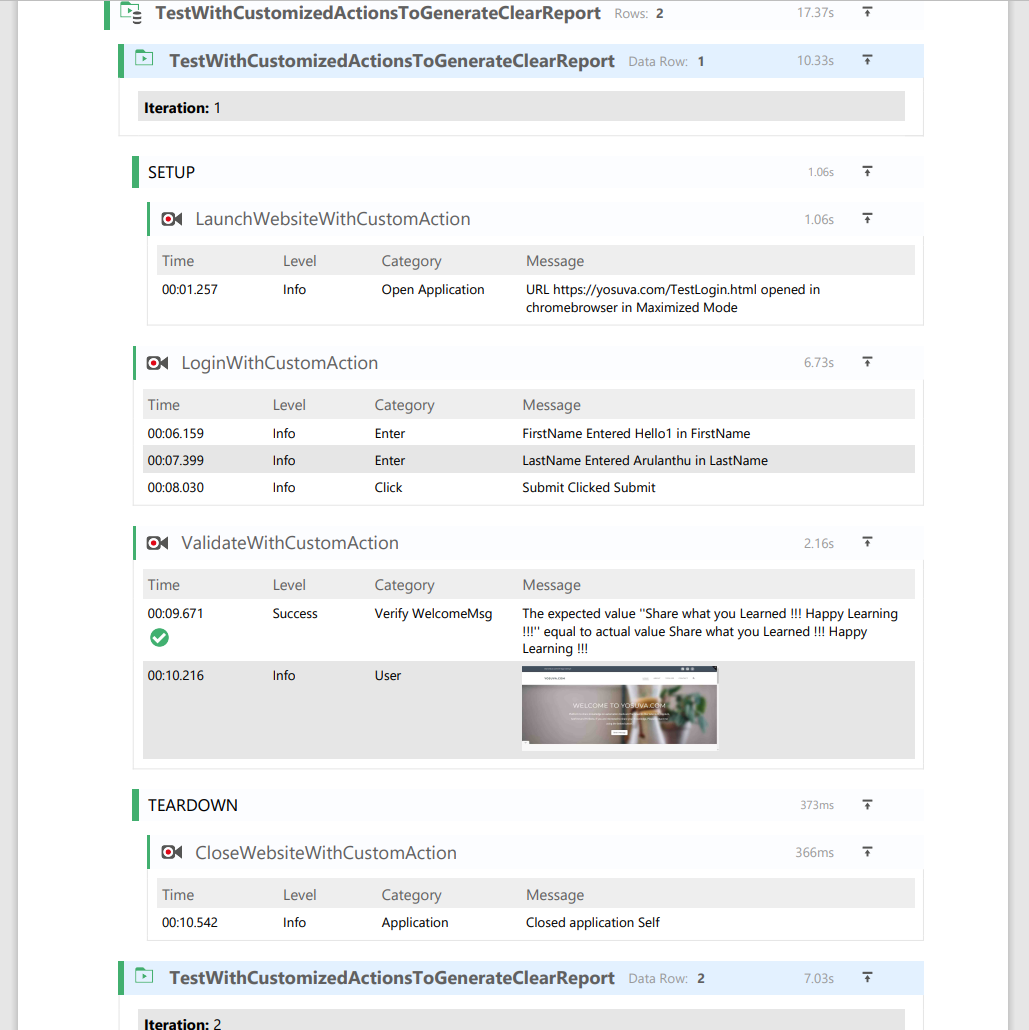
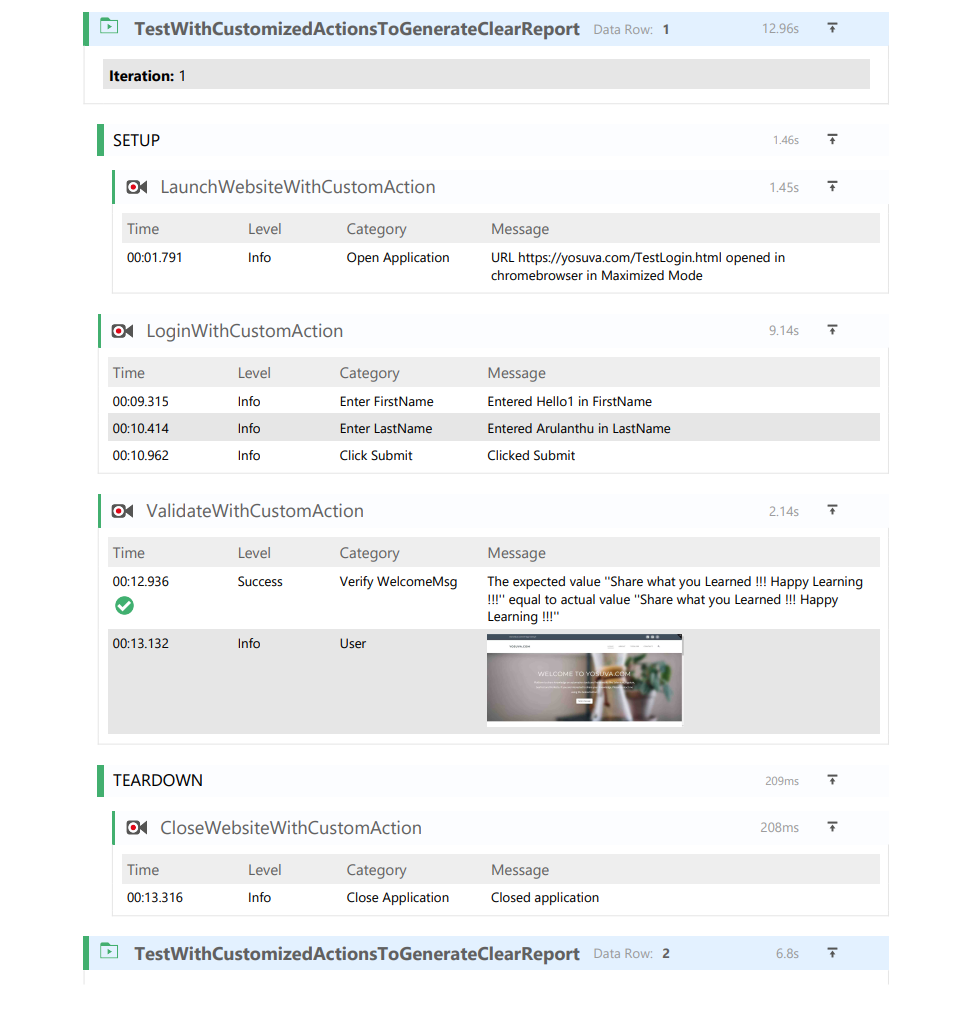
report changes

diff --git a/YosuvaCom/CustomReport/RanorexReport.css b/YosuvaCom/CustomReport/RanorexReport.css
@@ -102,7 +102,7 @@ a:hover {
 div#page {
     text-align: left;
     margin: 0 auto;
-    width: 1400px;
+    width: 1280px; /*it was 950px;*/
     padding: 0;
     background-color: #fff;
     border: 0px solid #ccc;

diff --git a/YosuvaCom/Framework/Actions.cs b/YosuvaCom/Framework/Actions.cs
@@ -39,7 +39,7 @@ namespace Framework
     	public static void Click(RepoItemInfo RepoObject){
     		Ranorex.Adapter itemAdapter=RepoObject.CreateAdapter<Unknown>(true);
     		itemAdapter.Click();
-    		Report.Log(ReportLevel.Info,"Click",RepoObject.Name.Replace("_","")+" Clicked "+RepoObject.Name.Replace("_",""));
+    		Report.Log(ReportLevel.Info,"Click "+RepoObject.Name.Replace("_",""),"Clicked "+RepoObject.Name.Replace("_",""));
     	}
     	
     	[UserCodeMethod]
@@ -47,7 +47,7 @@ namespace Framework
         {
     		Ranorex.Adapter itemAdapter=RepoObject.CreateAdapter<Unknown>(true);
     		itemAdapter.PressKeys (Value);
-    		Report.Log(ReportLevel.Info,"Enter",RepoObject.Name.Replace("_","")+" Entered "+Value+" in "+RepoObject.Name.Replace("_",""));
+    		Report.Log(ReportLevel.Info,"Enter "+RepoObject.Name.Replace("_",""),"Entered "+Value+" in "+RepoObject.Name.Replace("_",""));
 
         }
     	
@@ -63,11 +63,11 @@ namespace Framework
 			}
 			if (actual.Replace("\n","").Equals(expected.Replace("\n","")))
 			{
-				Report.Log(ReportLevel.Success,"Verify "+repoItem.Name.Replace("_",""), "The expected value ''"+expected +"'' equal to actual value "+actual);
+				Report.Log(ReportLevel.Success,"Verify "+repoItem.Name.Replace("_",""), "The expected value ''"+expected +"'' equal to actual value ''"+actual+"''");
 			}
 			else
 			{
-				Report.Log(ReportLevel.Failure,"Verify "+repoItem.Name.Replace("_",""), "The expected value ''"+expected +"'' not equal to actual value "+actual);
+				Report.Log(ReportLevel.Failure,"Verify "+repoItem.Name.Replace("_",""), "The expected value ''"+expected +"'' not equal to actual value ''"+actual+"''");
 			}
 
 		}
@@ -76,7 +76,7 @@ namespace Framework
 		public static void CloseApplication(RepoItemInfo repoItem)
         {
 			Host.Current.CloseApplication(repoItem.FindAdapter<WebDocument>(), new Duration(0));
-            Report.Log(ReportLevel.Info, "Application", "Closed application  "+repoItem.Name.Replace("_",""), repoItem);
+            Report.Log(ReportLevel.Info, "Close Application", "Closed application");
 
         }
     }
